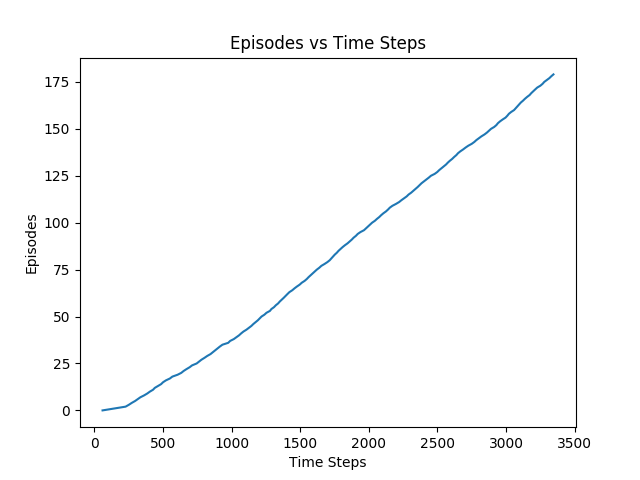
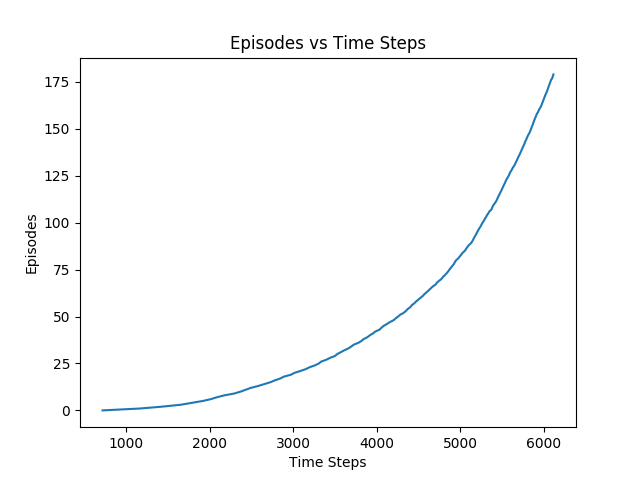
Refinements

diff --git a/cs747-pa4/main.py b/cs747-pa4/main.py
@@ -1,22 +1,47 @@
 from agent import SarsaAgent
-import numpy as np 
-import matplotlib.pyplot as plt
-import os
 from environment import WindyGridWorld, WindyGridWorldwithKingMoves, StochasticWindyGridWorld
 
-os.makedirs('plots', exist_ok=True)
+import numpy as np 
+import argparse
+import matplotlib.pyplot as plt
+import os
 
-env = WindyGridWorld()
-agent = SarsaAgent(env, alpha=0.5, epsilon=0.1, save_plot_path='baseline')
-agent.learn(num_seed_runs = 10)
 
-env = WindyGridWorldwithKingMoves()
-agent = SarsaAgent(env, alpha=0.5, epsilon=0.2, save_plot_path='kingmoves')
-agent.learn(num_seed_runs = 10)
+def get_args():
+	parser = argparse.ArgumentParser(description='Markov Decision Problem')
+	parser.add_argument('--baseline', action='store_true', default=False,
+		help='Solving for BaseLine WindyGridWorld Environment')
+	parser.add_argument('--kingmoves', action='store_true', default=False,
+		help='Solving for WindyGridWorld Environment with King Moves')
+	parser.add_argument('--stochastic', action='store_true', default=False,
+		help='Solving for Stochastic WindyGridWorld Environment with King Moves')
+	parser.add_argument('--num_seed_runs', type=int, default=10, 
+		help='Number of seeds to average the learnt values')
+	args = parser.parse_args()
+	return args
 
-# env = StochasticWindyGridWorld()
-# agent = SarsaAgent(env, alpha=0.5, epsilon=0.2, save_plot_path='stochastic')
-# agent.learn(num_seed_runs = 10)
+if __name__ == '__main__':
+	os.makedirs('plots', exist_ok=True)
 
-plt.legend()
-plt.show()
+	args = get_args()
+
+	if not args.baseline and not args.kingmoves and not args.stochastic:
+		print('Please pass the correct argument flag')
+
+	if args.baseline:
+		print('----------------- BaseLine -----------------')
+		env = WindyGridWorld()
+		agent = SarsaAgent(env, alpha=0.5, epsilon=0.1, save_plot_path='plots/baseline.png')
+		agent.learn(num_seed_runs = args.num_seed_runs)
+
+	if args.kingmoves:
+		print('----------------- KingMoves -----------------')
+		env = WindyGridWorldwithKingMoves()
+		agent = SarsaAgent(env, alpha=0.5, epsilon=0.1, save_plot_path='plots/kingmoves.png')
+		agent.learn(num_seed_runs = args.num_seed_runs)
+
+	if args.stochastic:
+		print('----------------- Stocastic with KingMoves -----------------')
+		env = StochasticWindyGridWorld()
+		agent = SarsaAgent(env, alpha=0.5, epsilon=0.1, save_plot_path='plots/stochastic.png')
+		agent.learn(num_seed_runs = args.num_seed_runs)

diff --git a/cs747-pa4/agent.py b/cs747-pa4/agent.py
@@ -8,7 +8,8 @@ class SarsaAgent():
 		self.env = env
 
 		self.alpha = alpha
-		self.epsilon = epsilon
+		self.epsilon_initial = epsilon
+		self.epsilon  = epsilon
 
 		self.Q_values = np.zeros((self.env.num_rows, self.env.num_columns, self.env.num_actions))
 
@@ -49,25 +50,36 @@ class SarsaAgent():
 
 		num_episodes = 180
 		final_time_step_values, final_episode_values = np.zeros((num_episodes,)), np.zeros((num_episodes,))
+		minimum_step_values = []
 
 		for seed in range(num_seed_runs):
-			np.random.seed(seed+4)
-			time_step_values, episode_values = [], []
+			np.random.seed(seed)
+			time_step_values, episode_values,  = [], []
 			time_steps = 0
 			self.Q_values = np.zeros((self.env.num_rows, self.env.num_columns, self.env.num_actions))
+			self.epsilon = self.epsilon_initial
+
 			for i in range(num_episodes):
 				time_step = self.play_episode()
 
 				time_steps += time_step
 				time_step_values.append(time_steps)
 				episode_values.append(i)
+				self.epsilon = self.epsilon_initial/(i+1)
+
+			min_step = np.min(np.array(time_step_values[1:]) - np.array(time_step_values[0:-1]))
+			minimum_step_values.append(min_step)
 			final_time_step_values += np.array(time_step_values)
 			final_episode_values += np.array(episode_values)
 
-		# import pdb; pdb.set_trace()
+		min_step = np.mean(minimum_step_values)
+		cumulative_step = final_time_step_values[-1]/num_seed_runs
+		print('Average Minimum steps to reach the target over {} seed runs of {} episodes: {}'.format(num_seed_runs, 
+			num_episodes, min_step))
+		print('Average Cumulative steps to reach the target over {} seed runs of {} episodes: {}'.format(num_seed_runs, 
+			num_episodes, cumulative_step))
+		plt.plot(final_time_step_values/num_seed_runs, np.int32(final_episode_values/num_seed_runs), label=self.save_plot_path)
 
-
-		plt.plot(np.int32(final_time_step_values/num_seed_runs), np.int32(final_episode_values/num_seed_runs), label=self.save_plot_path)
 		plt.xlabel('Time Steps')
 		plt.ylabel('Episodes')
 		plt.title('Episodes vs Time Steps')
